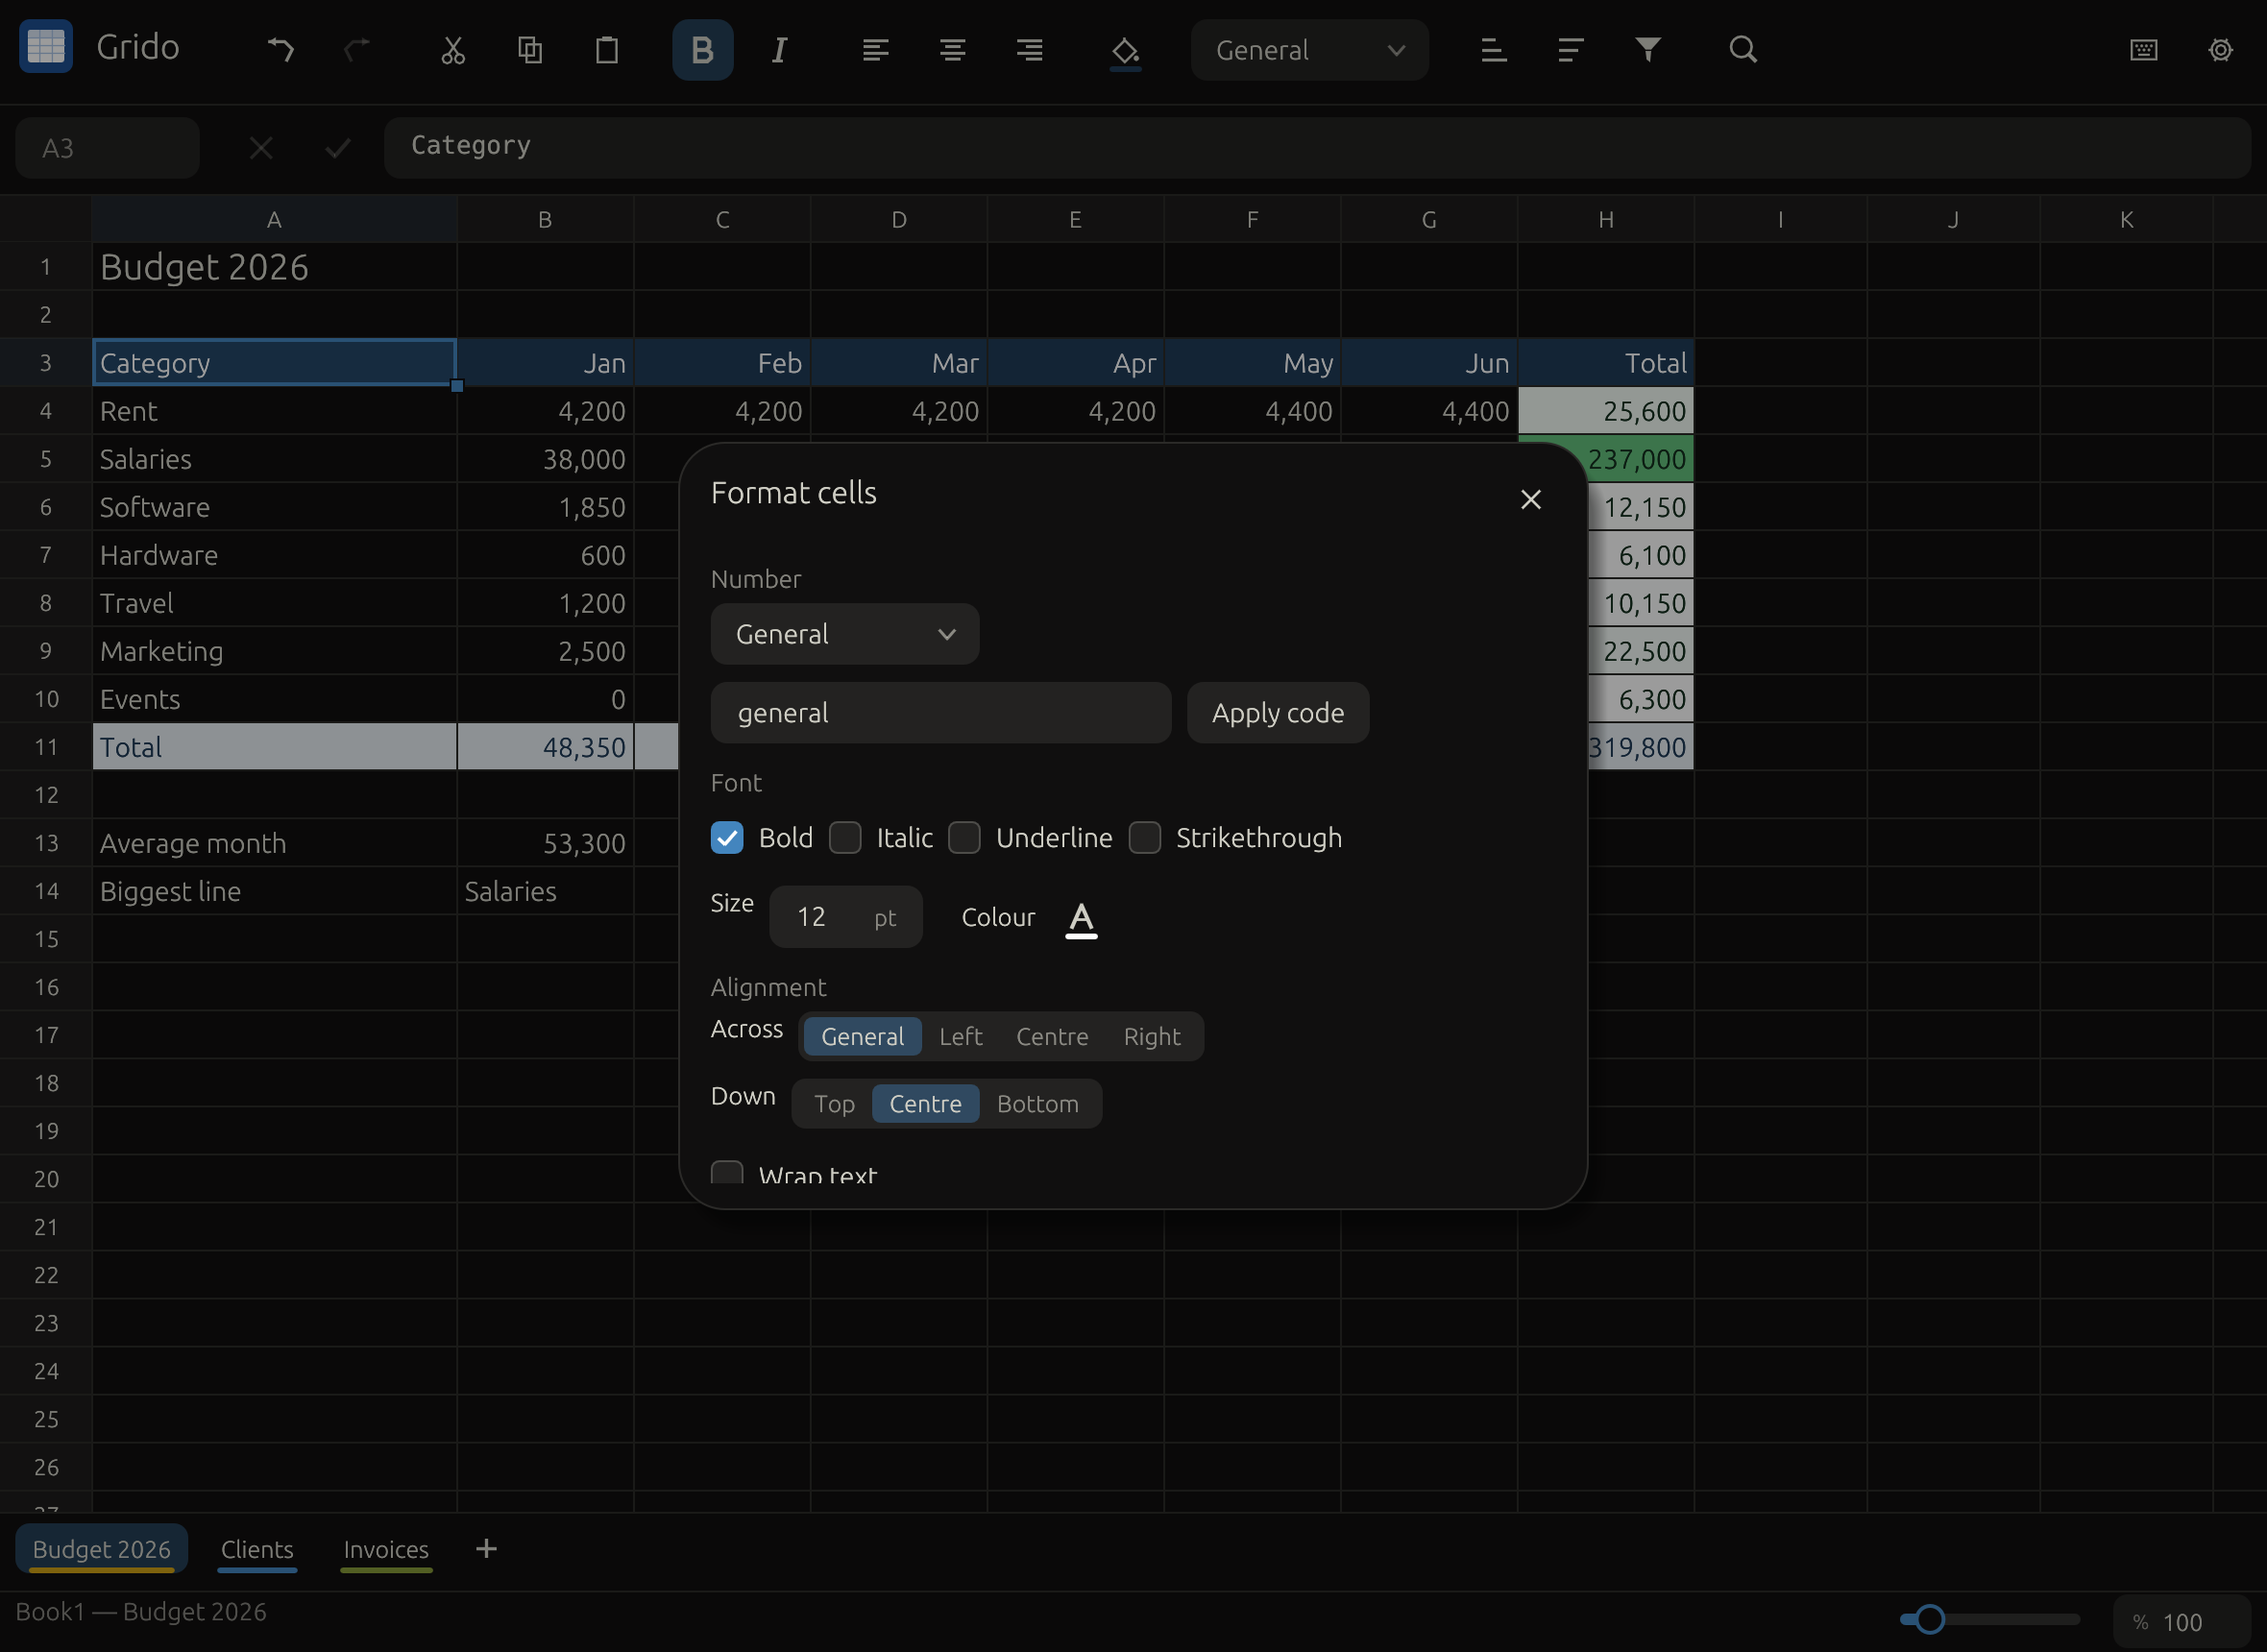
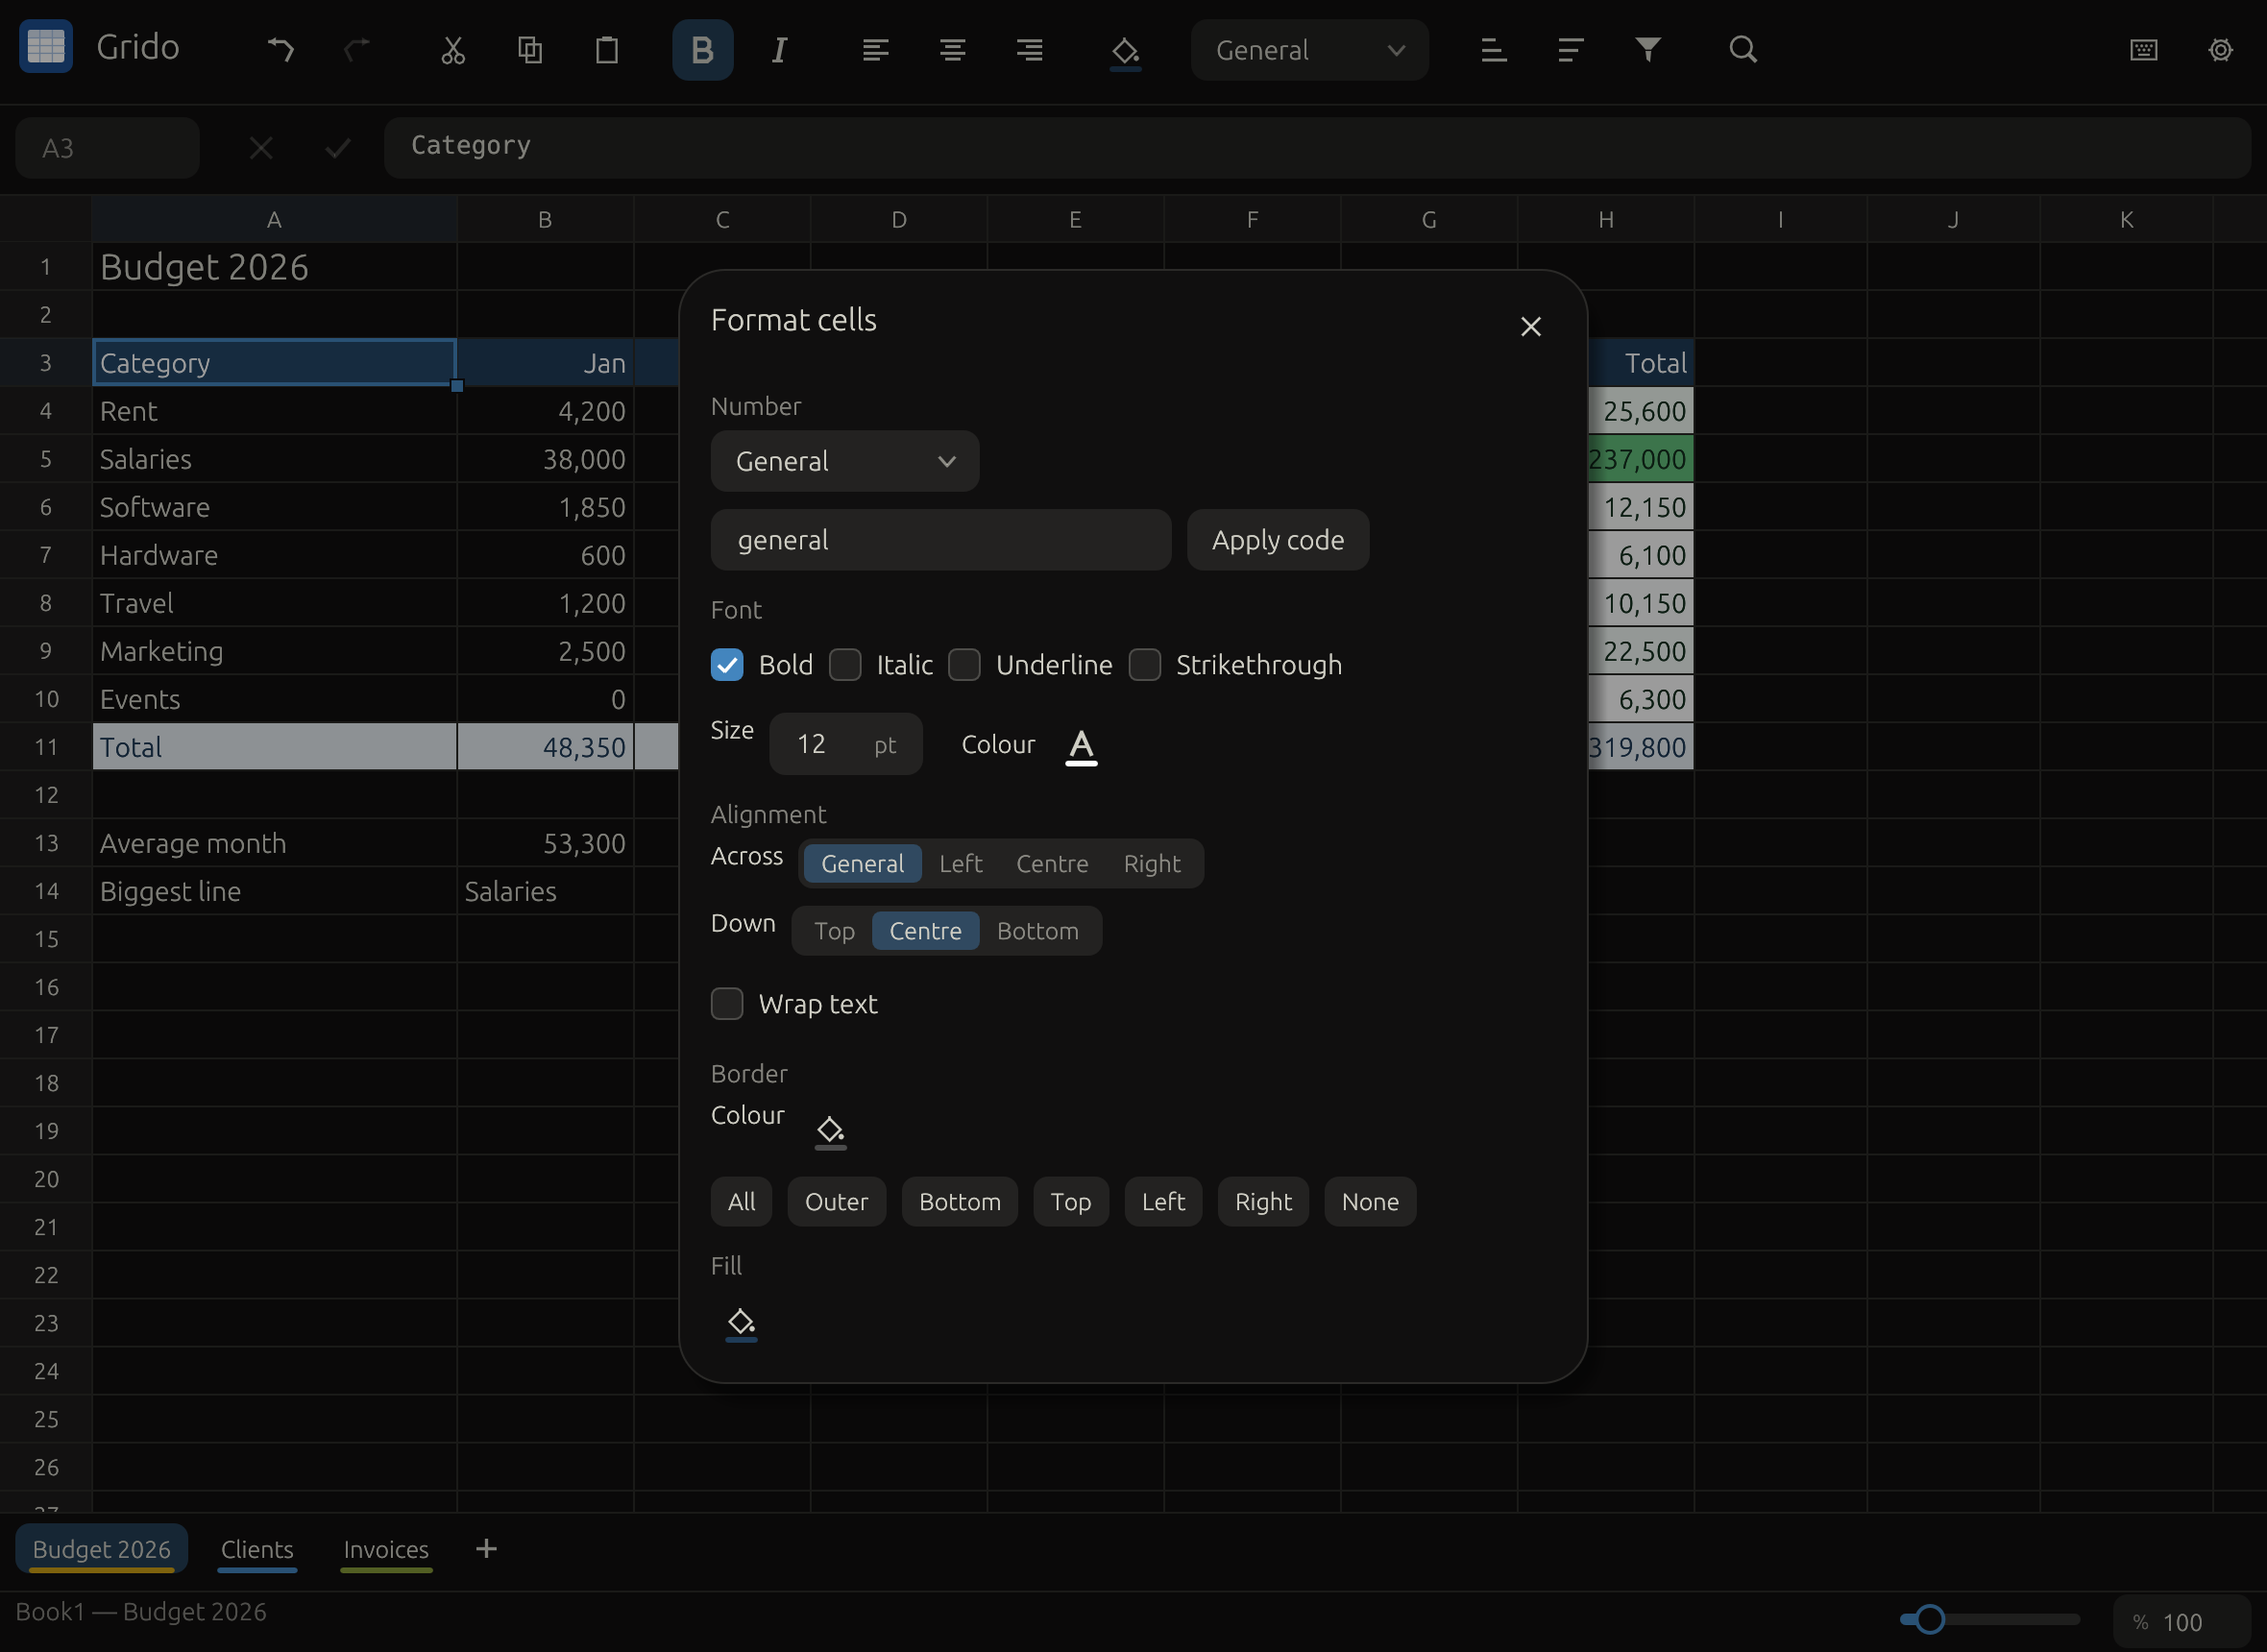
Format cells shows all it holds when the window has room

diff --git a/crates/grido/tests/window.rs b/crates/grido/tests/window.rs
@@ -181,3 +181,38 @@ fn a_narrow_window_keeps_the_far_end() {
     assert_eq!(ends.len(), 2, "both are drawn");
     assert!(ends.iter().all(|&right| right <= 640.0), "inside the window: {ends:?}");
 }
+
+/// In a window with room for it, Format cells shows all it holds: its last
+/// control sits inside its card, not scrolled out of sight.
+#[test]
+fn the_format_dialog_shows_all_it_holds() {
+    use eframe::egui::accesskit::Role;
+    let ctx = Context::default();
+    ctx.enable_accesskit();
+    let mut app = GridoApp::new(None);
+    app.claude = Some(false);
+    let mut border = None;
+    for i in 0..6 {
+        if i == 1 {
+            app.exec(grido::commands::Command::FormatDialog, &ctx);
+        }
+        let input = RawInput {
+            screen_rect: Some(Rect::from_min_size(Pos2::ZERO, Vec2::new(1180.0, 860.0))),
+            ..RawInput::default()
+        };
+        let out = ctx.run(input, |ctx| app.frame(ctx));
+        if let Some(update) = out.platform_output.accesskit_update {
+            border = update
+                .nodes
+                .iter()
+                .find(|(_, node)| node.role() == Role::Button && node.label() == Some("Border colour"))
+                .and_then(|(_, node)| node.bounds())
+                .or(border);
+        }
+    }
+    let card = ctx
+        .memory(|m| m.area_rect(Id::new(("omarchy-kit-dialog", "Format cells".to_string()))))
+        .expect("the dialog is up");
+    let border = border.expect("the border colour is drawn");
+    assert!(border.y1 as f32 <= card.bottom(), "inside the card: {border:?} {card:?}");
+}

diff --git a/crates/grido/src/ui/dialogs.rs b/crates/grido/src/ui/dialogs.rs
@@ -512,7 +512,10 @@ impl GridoApp {
         let mut draft = draft.expect("draft is set above");
 
         let shown = Dialog::new("Format cells").width(440.0).show(ctx, |ui| {
-            ScrollArea::vertical().max_height(ctx.content_rect().height() * 0.7).show(ui, |ui| {
+            // As tall as what it holds, up to seven tenths of the window; it
+            // scrolls only beyond that.
+            let tallest = ctx.content_rect().height() * 0.7;
+            ScrollArea::vertical().max_height(tallest).min_scrolled_height(tallest).show(ui, |ui| {
                 self.format_number(ui, &mut draft);
                 self.format_font(ui, &mut draft);
                 self.format_alignment(ui, &mut draft);
